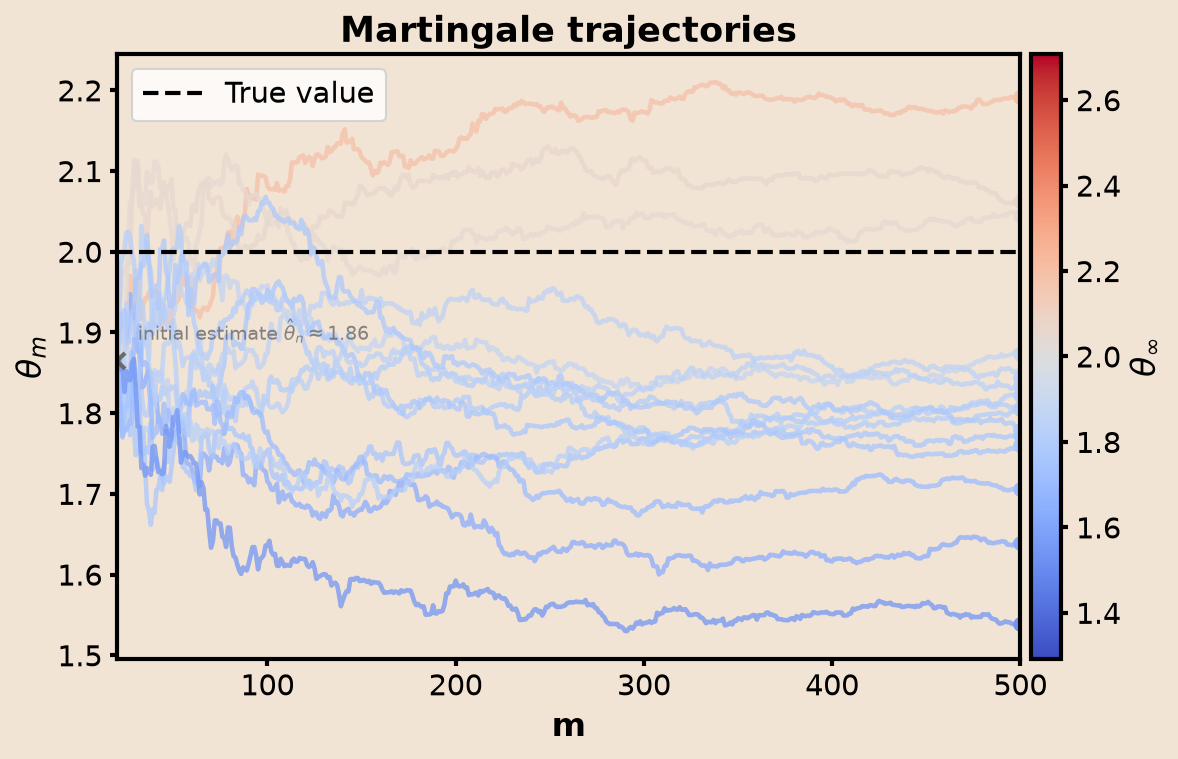
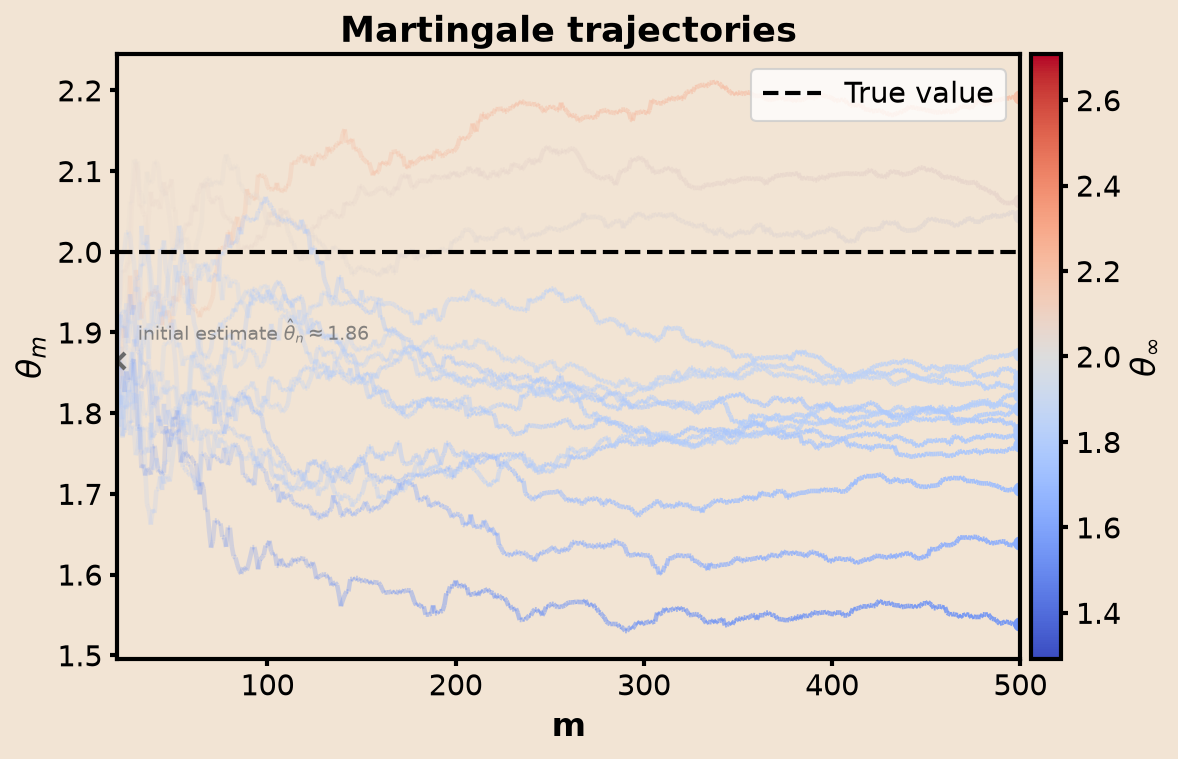
Add axes to data plot, fade-in trajectories by accumulated S_m, plain histogram
Data plot: light x=0/y=0 reference lines.
Trajectories: opacity now ramps with S_m = sum(x_i^2) accumulated by each
run (the quantity that actually shrinks the update step size), rather
than uniform opacity, so lines visibly solidify as they gather
information.
Histogram: reverted to a single accent color, since a per-bar value
color-code doesn't add anything the x-axis position doesn't already say.

diff --git a/scripts/plot_results.py b/scripts/plot_results.py
@@ -4,6 +4,7 @@ import argparse
 import tomllib
 
 import matplotlib.pyplot as plt
+from matplotlib.collections import LineCollection
 from matplotlib.colors import TwoSlopeNorm
 import numpy as np
 
@@ -36,6 +37,9 @@ def plot_data(x, y, theta_star, path):
     fig, ax = plt.subplots(figsize=(8, 5))
     style_axes(ax, fig)
 
+    ax.axhline(0, color="gray", linewidth=1, alpha=0.4, zorder=0)
+    ax.axvline(0, color="gray", linewidth=1, alpha=0.4, zorder=0)
+
     x_line = np.array([x.min(), x.max()])
     ax.plot(x_line, theta_star * x_line, color="black", linestyle="--", linewidth=2,
             label="True line", zorder=1)
@@ -50,18 +54,33 @@ def plot_data(x, y, theta_star, path):
     fig.savefig(path, dpi=150, bbox_inches="tight")
 
 
-def plot_trajectories(theta_traj, theta_infty, theta_star, n, M, num_plot, path):
+def plot_trajectories(theta_traj, x_traj, theta_infty, theta_star, S_n, n, M, num_plot, path):
     m = np.arange(n, M + 1)
     cmap = plt.get_cmap(CMAP)
     norm = value_norm(theta_infty, theta_star)
+    alpha_min, alpha_max = 0.15, 0.9
 
     fig, ax = plt.subplots(figsize=(8, 5))
     style_axes(ax, fig)
 
-    for traj in theta_traj[:num_plot]:
+    for traj, x_seq in zip(theta_traj[:num_plot], x_traj[:num_plot]):
+        # S_m = sum of x_i^2 seen so far: the accumulated information that drives
+        # the update's step size down. Use it (not raw m) to fade in each line.
+        S = np.concatenate([[S_n], S_n + np.cumsum(x_seq**2)])
+        progress = (S - S_n) / (S[-1] - S_n)
+        alpha = alpha_min + (alpha_max - alpha_min) * progress
+
         color = cmap(norm(traj[-1]))
-        ax.plot(m, traj, color=color, alpha=0.75, linewidth=2.2)
+        points = np.array([m, traj]).T.reshape(-1, 1, 2)
+        segments = np.concatenate([points[:-1], points[1:]], axis=1)
+        lc = LineCollection(segments, colors=[(*color[:3], a) for a in alpha[:-1]],
+                             linewidths=2.2)
+        ax.add_collection(lc)
         ax.plot(m[-1], traj[-1], "o", color=color, markersize=6)
+
+    ymin, ymax = theta_traj[:num_plot].min(), theta_traj[:num_plot].max()
+    pad = 0.05 * (ymax - ymin)
+    ax.set_ylim(ymin - pad, ymax + pad)
     ax.axhline(theta_star, color="black", linestyle="--", linewidth=2, label="True value")
 
     theta_hat_n = float(theta_traj[0, 0])
@@ -89,16 +108,10 @@ def plot_trajectories(theta_traj, theta_infty, theta_star, n, M, num_plot, path)
 
 
 def plot_histogram(theta_infty, theta_star, path):
-    cmap = plt.get_cmap(CMAP)
-    norm = value_norm(theta_infty, theta_star)
-
     fig, ax = plt.subplots(figsize=(8, 5))
     style_axes(ax, fig)
 
-    _, bin_edges, patches = ax.hist(theta_infty, bins=40, edgecolor=BG_COLOR)
-    bin_centers = (bin_edges[:-1] + bin_edges[1:]) / 2
-    for center, patch in zip(bin_centers, patches):
-        patch.set_facecolor(cmap(norm(center)))
+    ax.hist(theta_infty, bins=40, color=ACCENT_COLOR, edgecolor=BG_COLOR)
     ax.axvline(theta_star, color="black", linestyle="--", linewidth=2, label="True value")
 
     ax.set_xlabel(r"$\theta_\infty$", fontsize=16, fontweight="bold")
@@ -121,8 +134,10 @@ def main():
     plot_data(dataset["x"], dataset["y"], config["theta_star"], "figures/data.png")
     plot_trajectories(
         results["theta_traj"],
+        results["x_traj"],
         results["theta_infty"],
         config["theta_star"],
+        float(np.sum(dataset["x"] ** 2)),
         config["n"],
         config["M"],
         config["num_trajectories_plot"],